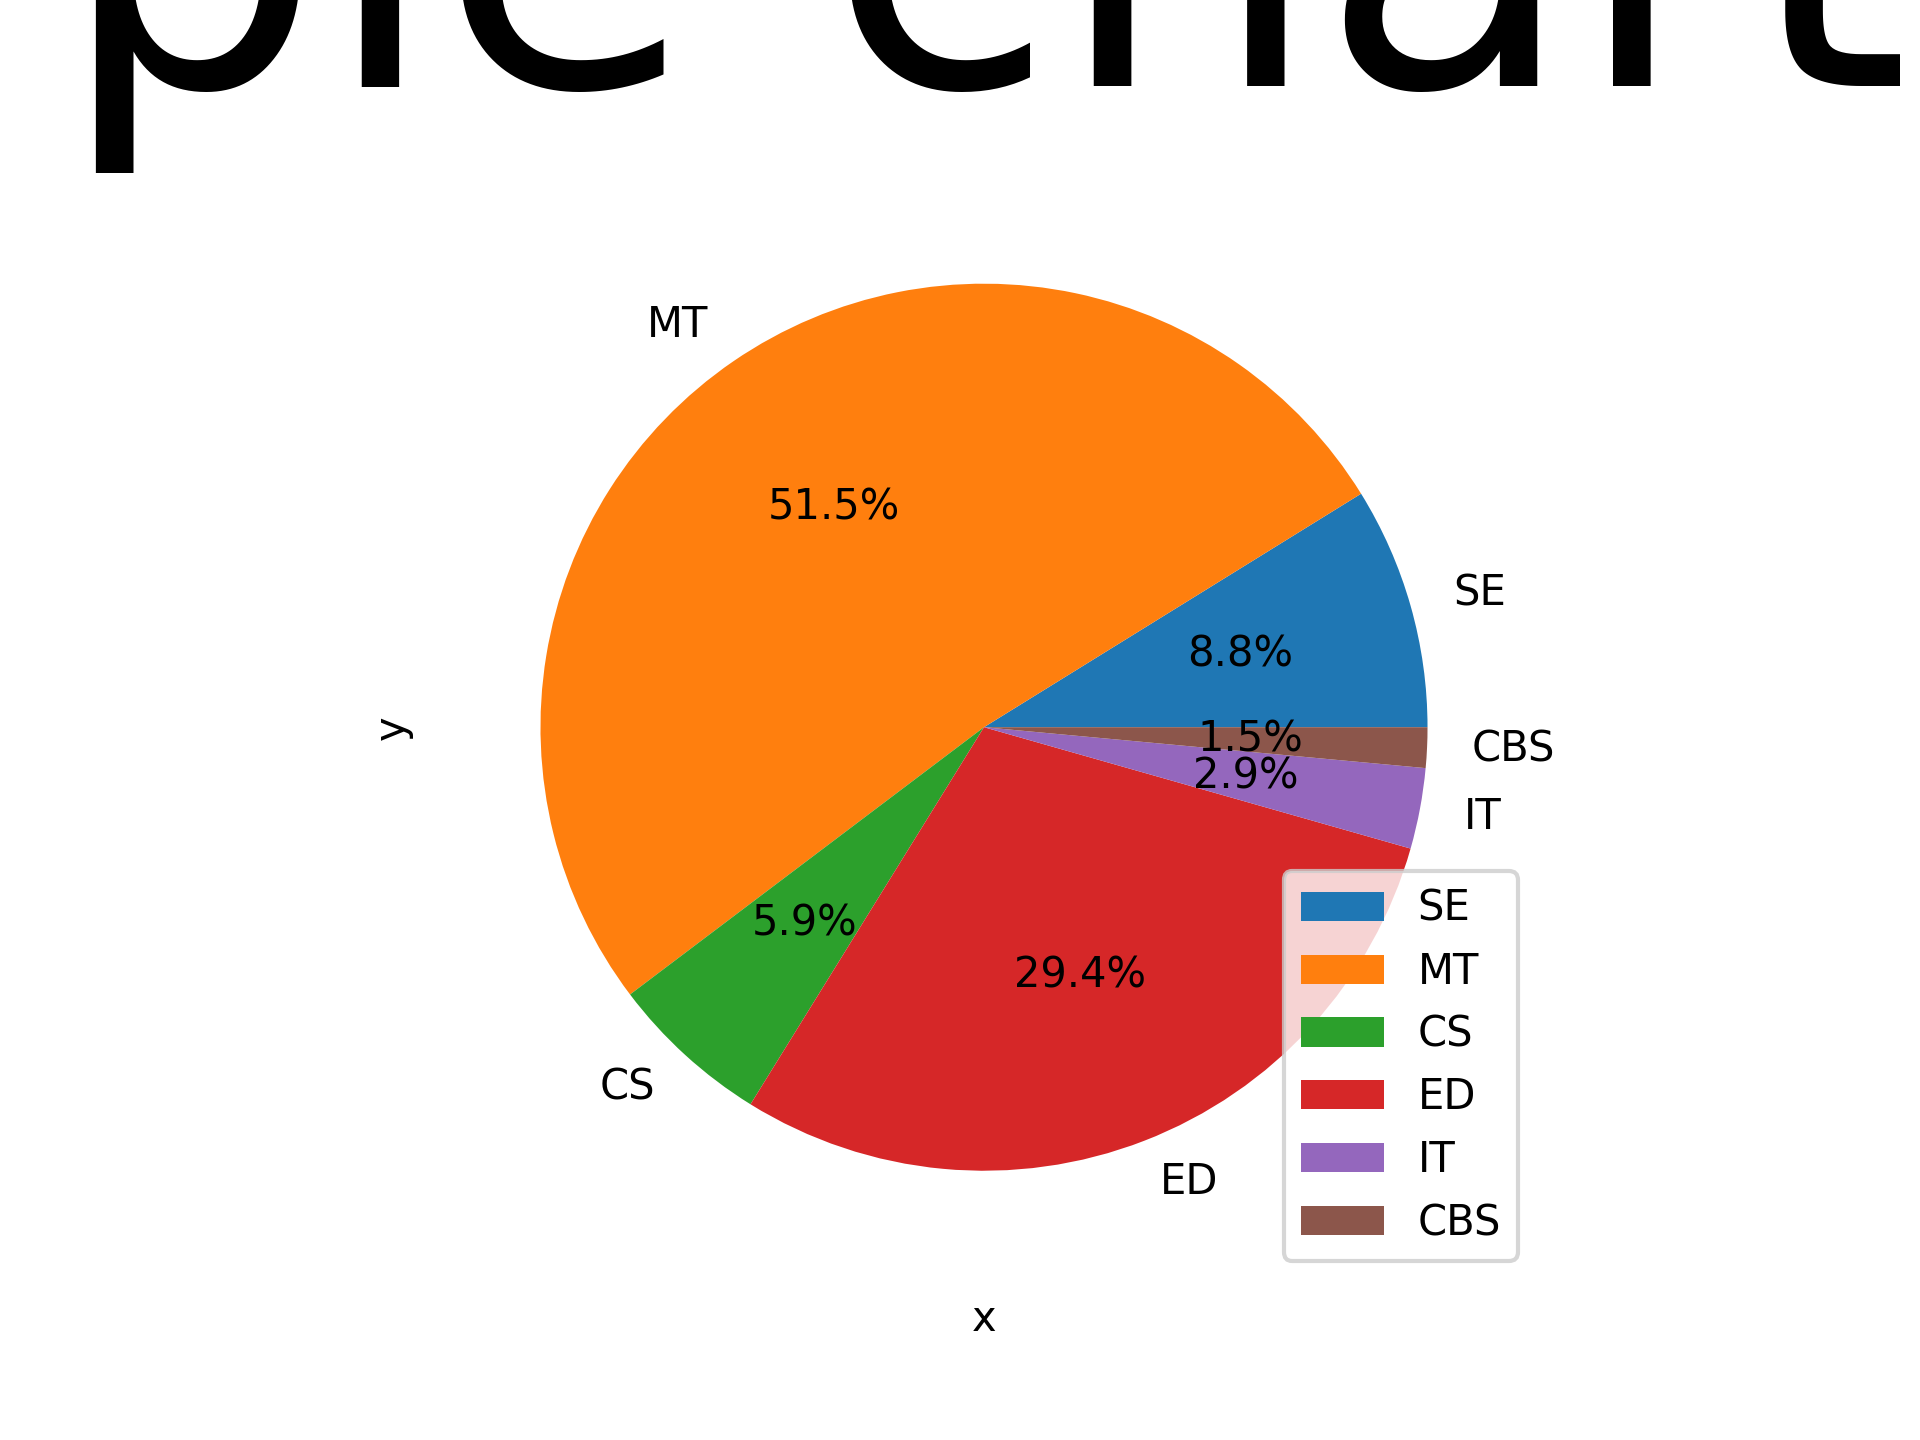
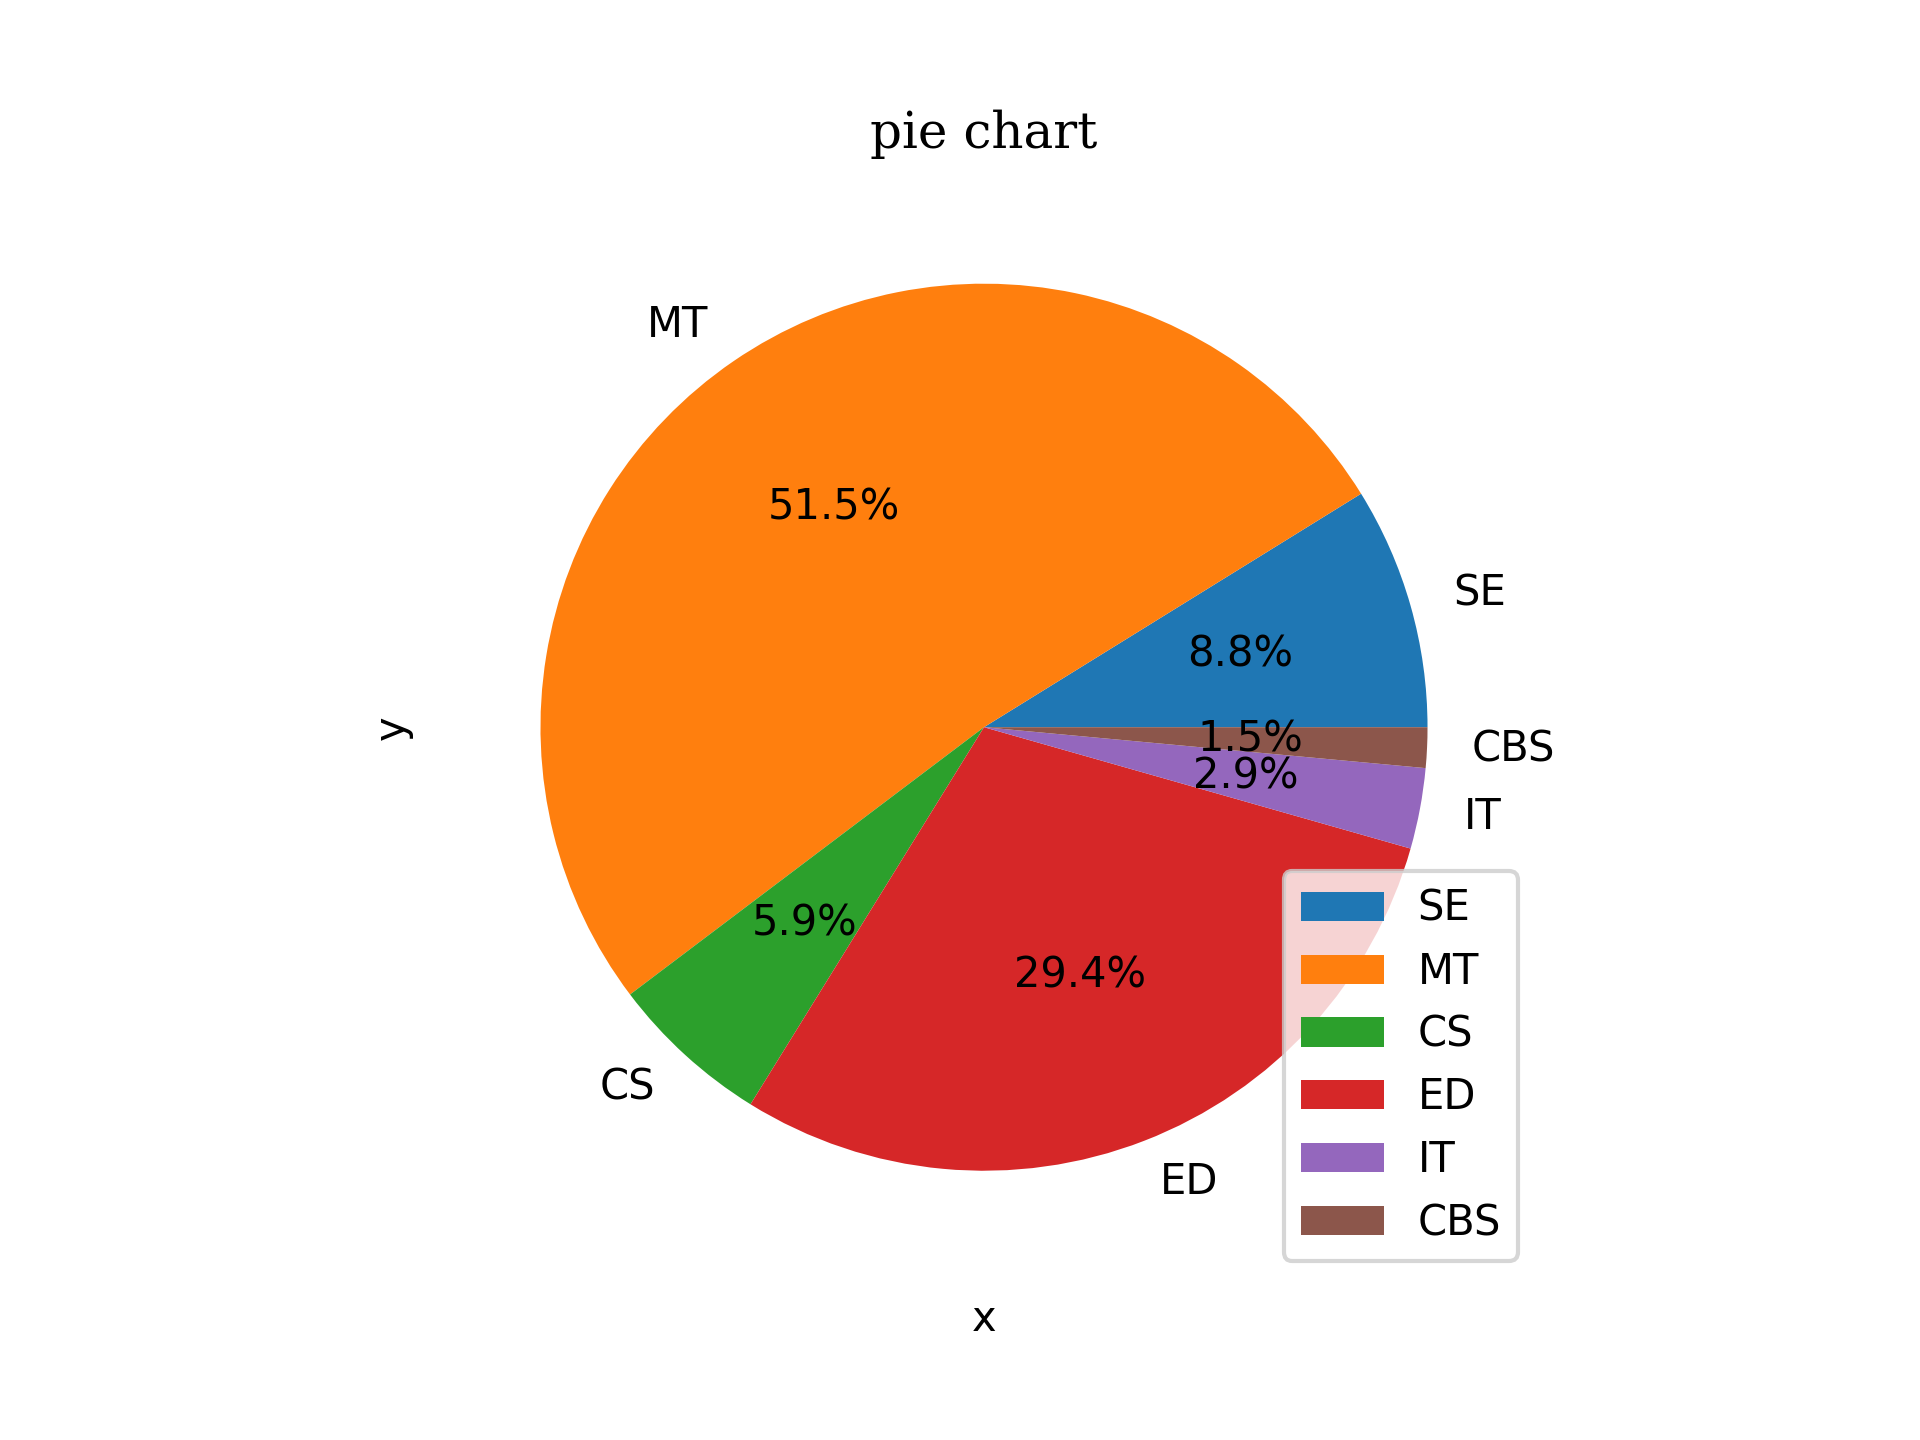
all

diff --git a/main.py b/main.py
@@ -491,7 +491,7 @@ data={
 }
 df=pd.DataFrame(data)
 plt.pie(df['emp'],labels=df['dept'],autopct='%1.1f%%',startangle=360)
-plt.title('pie chart')
+plt.title('pie chart',fontfamily='serif')
 plt.xlabel('x')
 plt.ylabel('y')
 plt.legend()
